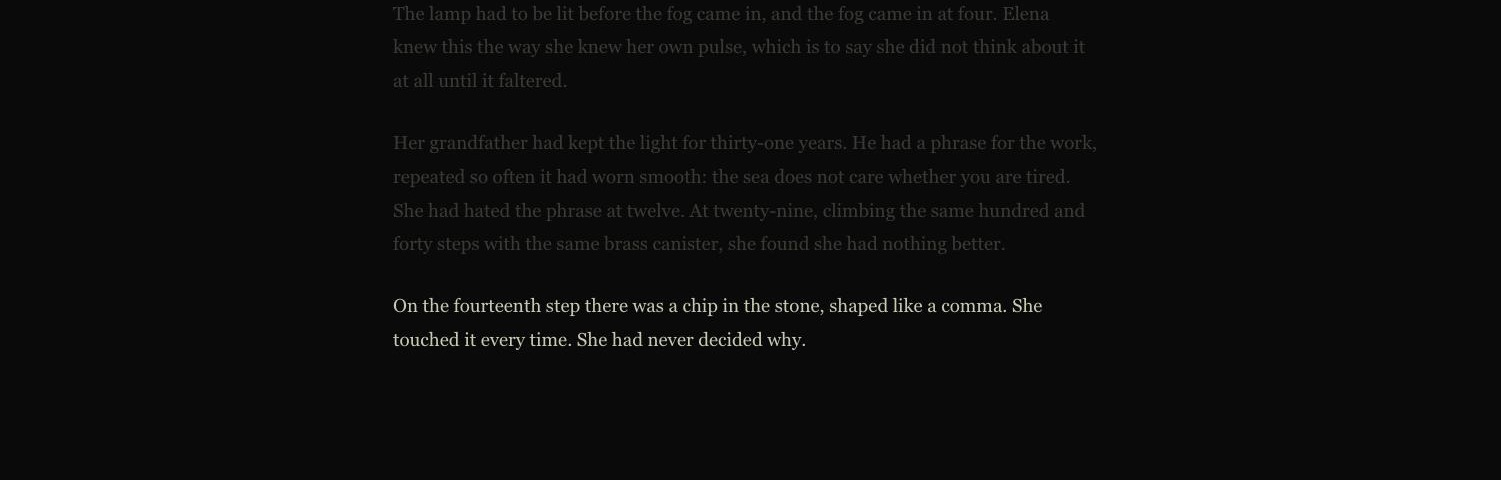
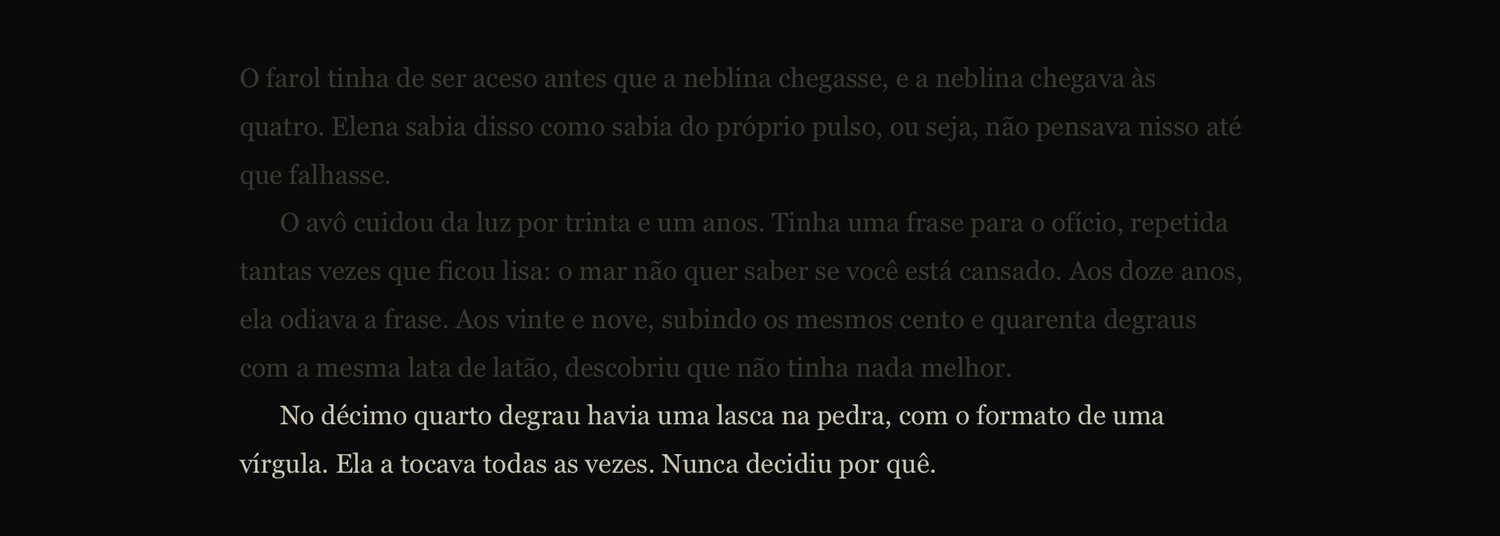
Põe os prints em português no README e a imagem da prévia do link
Os dois prints do README (editor e modo foco) mostravam a interface em
inglês. Saem os novos, tirados com um banco falso em memória e o capítulo
de exemplo traduzido, sem conta nem dado de produção.

O index.html ganha og:image (public/og.jpg, 1200x630) e
twitter:card summary_large_image, para o link aparecer com a tela do
editor no X, no WhatsApp e no Threads. Um teste confere que o arquivo
existe e tem o tamanho declarado nas meta tags.

diff --git a/index.html b/index.html
@@ -10,6 +10,11 @@
     <meta property="og:description" content="Gratuito e de código aberto. Capítulos, fichas de personagens, modo foco e exportação em PDF e Word." />
     <meta property="og:url" content="https://scribeflow-psi.vercel.app/" />
     <meta property="og:locale" content="pt_BR" />
+    <meta property="og:image" content="https://scribeflow-psi.vercel.app/og.jpg" />
+    <meta property="og:image:width" content="1200" />
+    <meta property="og:image:height" content="630" />
+    <meta property="og:image:alt" content="O editor do ScribeFlow: a estrutura do livro à esquerda, o capítulo no centro e a sinopse, o rótulo e as notas à direita." />
+    <meta name="twitter:card" content="summary_large_image" />
     <link rel="icon" href="/icons/icon.svg" type="image/svg+xml" />
     <link rel="icon" href="/icons/favicon-32.png" sizes="32x32" type="image/png" />
     <link rel="apple-touch-icon" href="/apple-touch-icon.png" />

diff --git a/tests/metadata-labels.test.ts b/tests/metadata-labels.test.ts
@@ -64,3 +64,16 @@ test('interface sem os textos em ingles que foram traduzidos', () => {
 test('a pagina declara portugues', () => {
   assert.match(readFileSync('index.html', 'utf8'), /<html lang="pt-BR">/)
 })
+
+test('a imagem da previa do link existe em public/ com o tamanho declarado', () => {
+  const html = readFileSync('index.html', 'utf8')
+  const url = html.match(/<meta property="og:image" content="([^"]+)"/)?.[1]
+  assert.equal(url, 'https://scribeflow-psi.vercel.app/og.jpg')
+  const jpg = readFileSync('public/og.jpg')
+  // Marcador SOF do JPEG: altura e largura em 16 bits depois de FFC0/FFC2.
+  const sof = jpg.findIndex((b, i) => b === 0xff && (jpg[i + 1] === 0xc0 || jpg[i + 1] === 0xc2))
+  assert.ok(sof > 0)
+  assert.deepEqual([jpg.readUInt16BE(sof + 7), jpg.readUInt16BE(sof + 5)], [1200, 630])
+  assert.match(html, /og:image:width" content="1200"/)
+  assert.match(html, /og:image:height" content="630"/)
+})

diff --git a/README.md b/README.md
@@ -31,11 +31,13 @@ Scrivener is the gold standard for fiction writing software — but it's paid, d
 
 ## Screenshots
 
+The interface is in Brazilian Portuguese. The text on screen is a sample chapter written for these screenshots.
+
 ### Editor
 
 The full writing environment: hierarchical binder on the left, manuscript in the center, and the Inspector on the right with synopsis, label, status and notes per document. Word count and session target live in the footer.
 
-![ScribeFlow editor showing a binder with three chapters, a manuscript page, and the inspector panel](docs/screenshots/editor.jpg)
+![ScribeFlow editor in Portuguese: the binder (Estrutura) with three chapters, the chapter page, and the Inspector (Detalhes) with synopsis, label and notes](docs/screenshots/editor.jpg)
 
 ### Composition Mode
 
